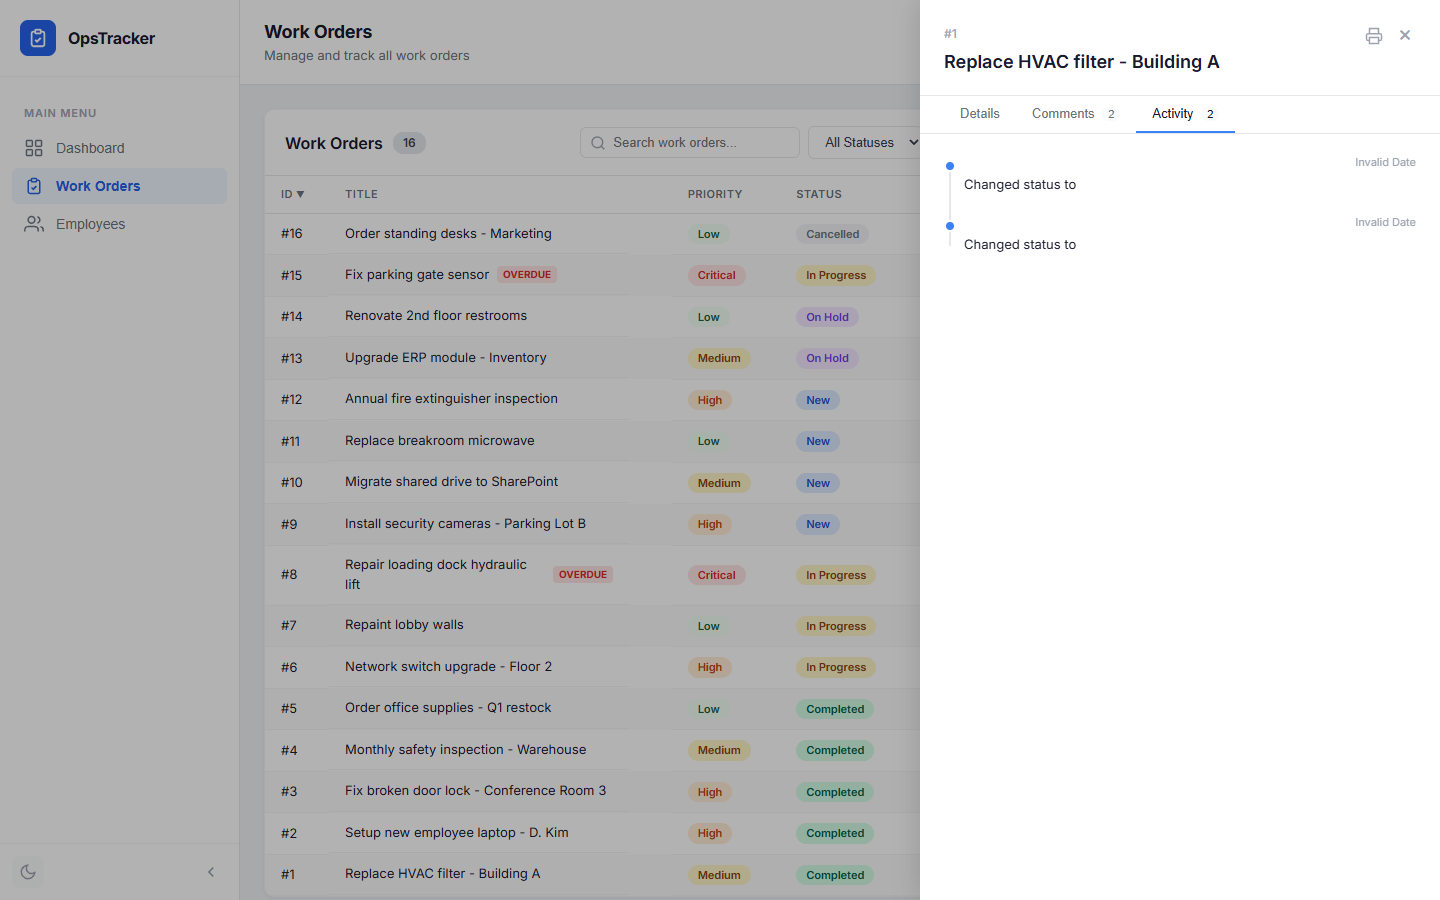
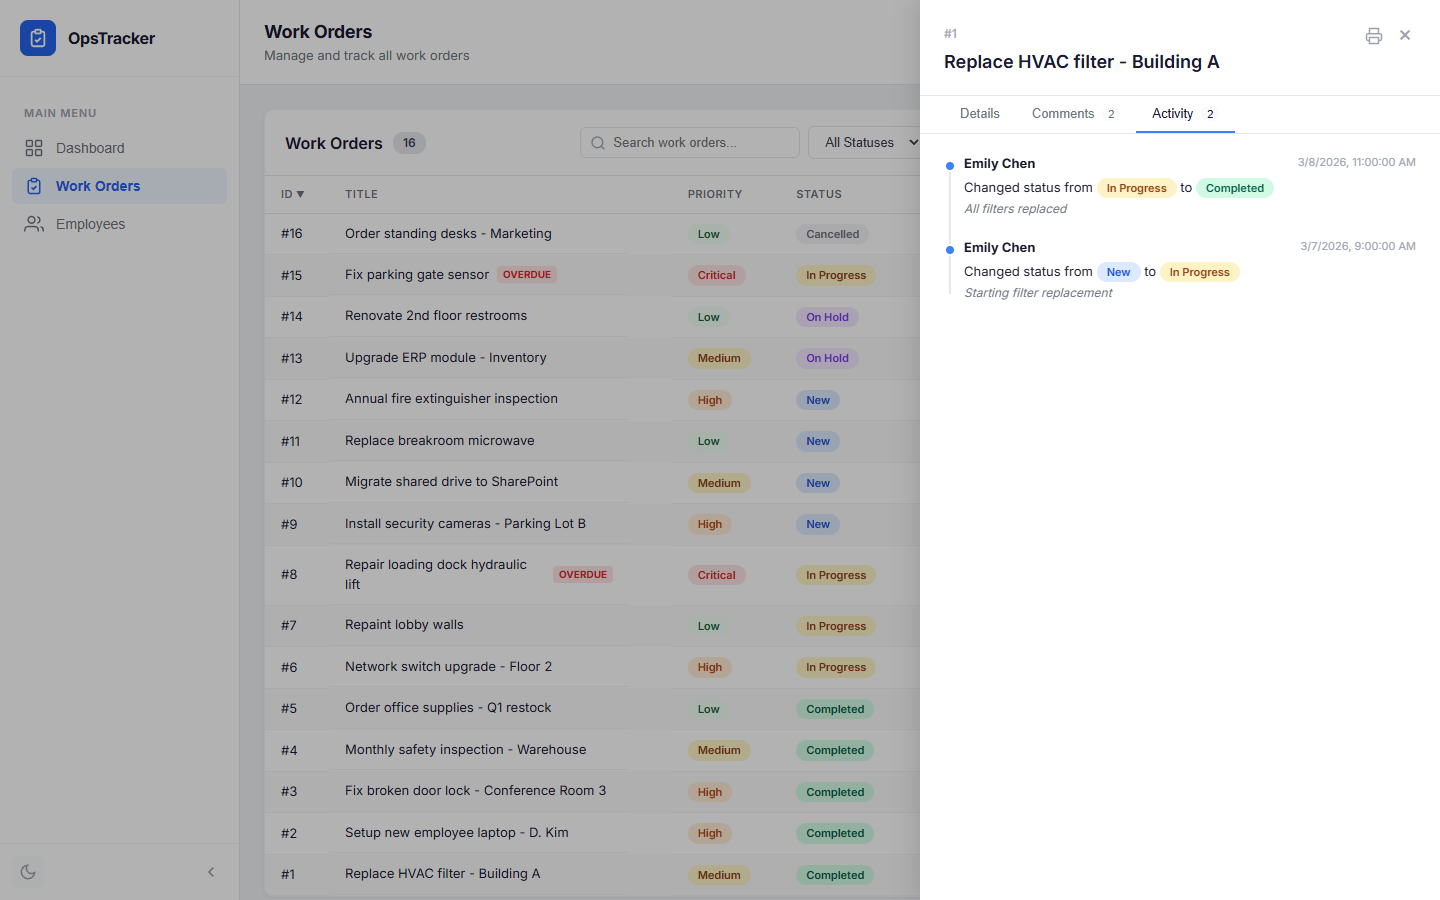
Add comments and activity tab screenshots to README

Changed region(s): [[0.6562, 0.1556, 0.9062, 0.3422], [0.9062, 0.2489, 0.9688, 0.28], [0.9062, 0.1556, 0.9688, 0.1867]]

diff --git a/README.md b/README.md
@@ -16,6 +16,10 @@ A full-stack work order management system for tracking business operations, buil
 |-----------|---------------|-----------|
 | ![Employees](docs/screenshots/employees.png) | ![New Order](docs/screenshots/new-work-order.png) | ![Dark Mode](docs/screenshots/dark-mode.png) |
 
+| Comments | Activity Log |
+|----------|-------------|
+| ![Comments](docs/screenshots/work-order-comments.png) | ![Activity](docs/screenshots/work-order-activity.png) |
+
 ## Features
 
 - **Dashboard** — real-time metrics, status distribution chart, team workload visualization
